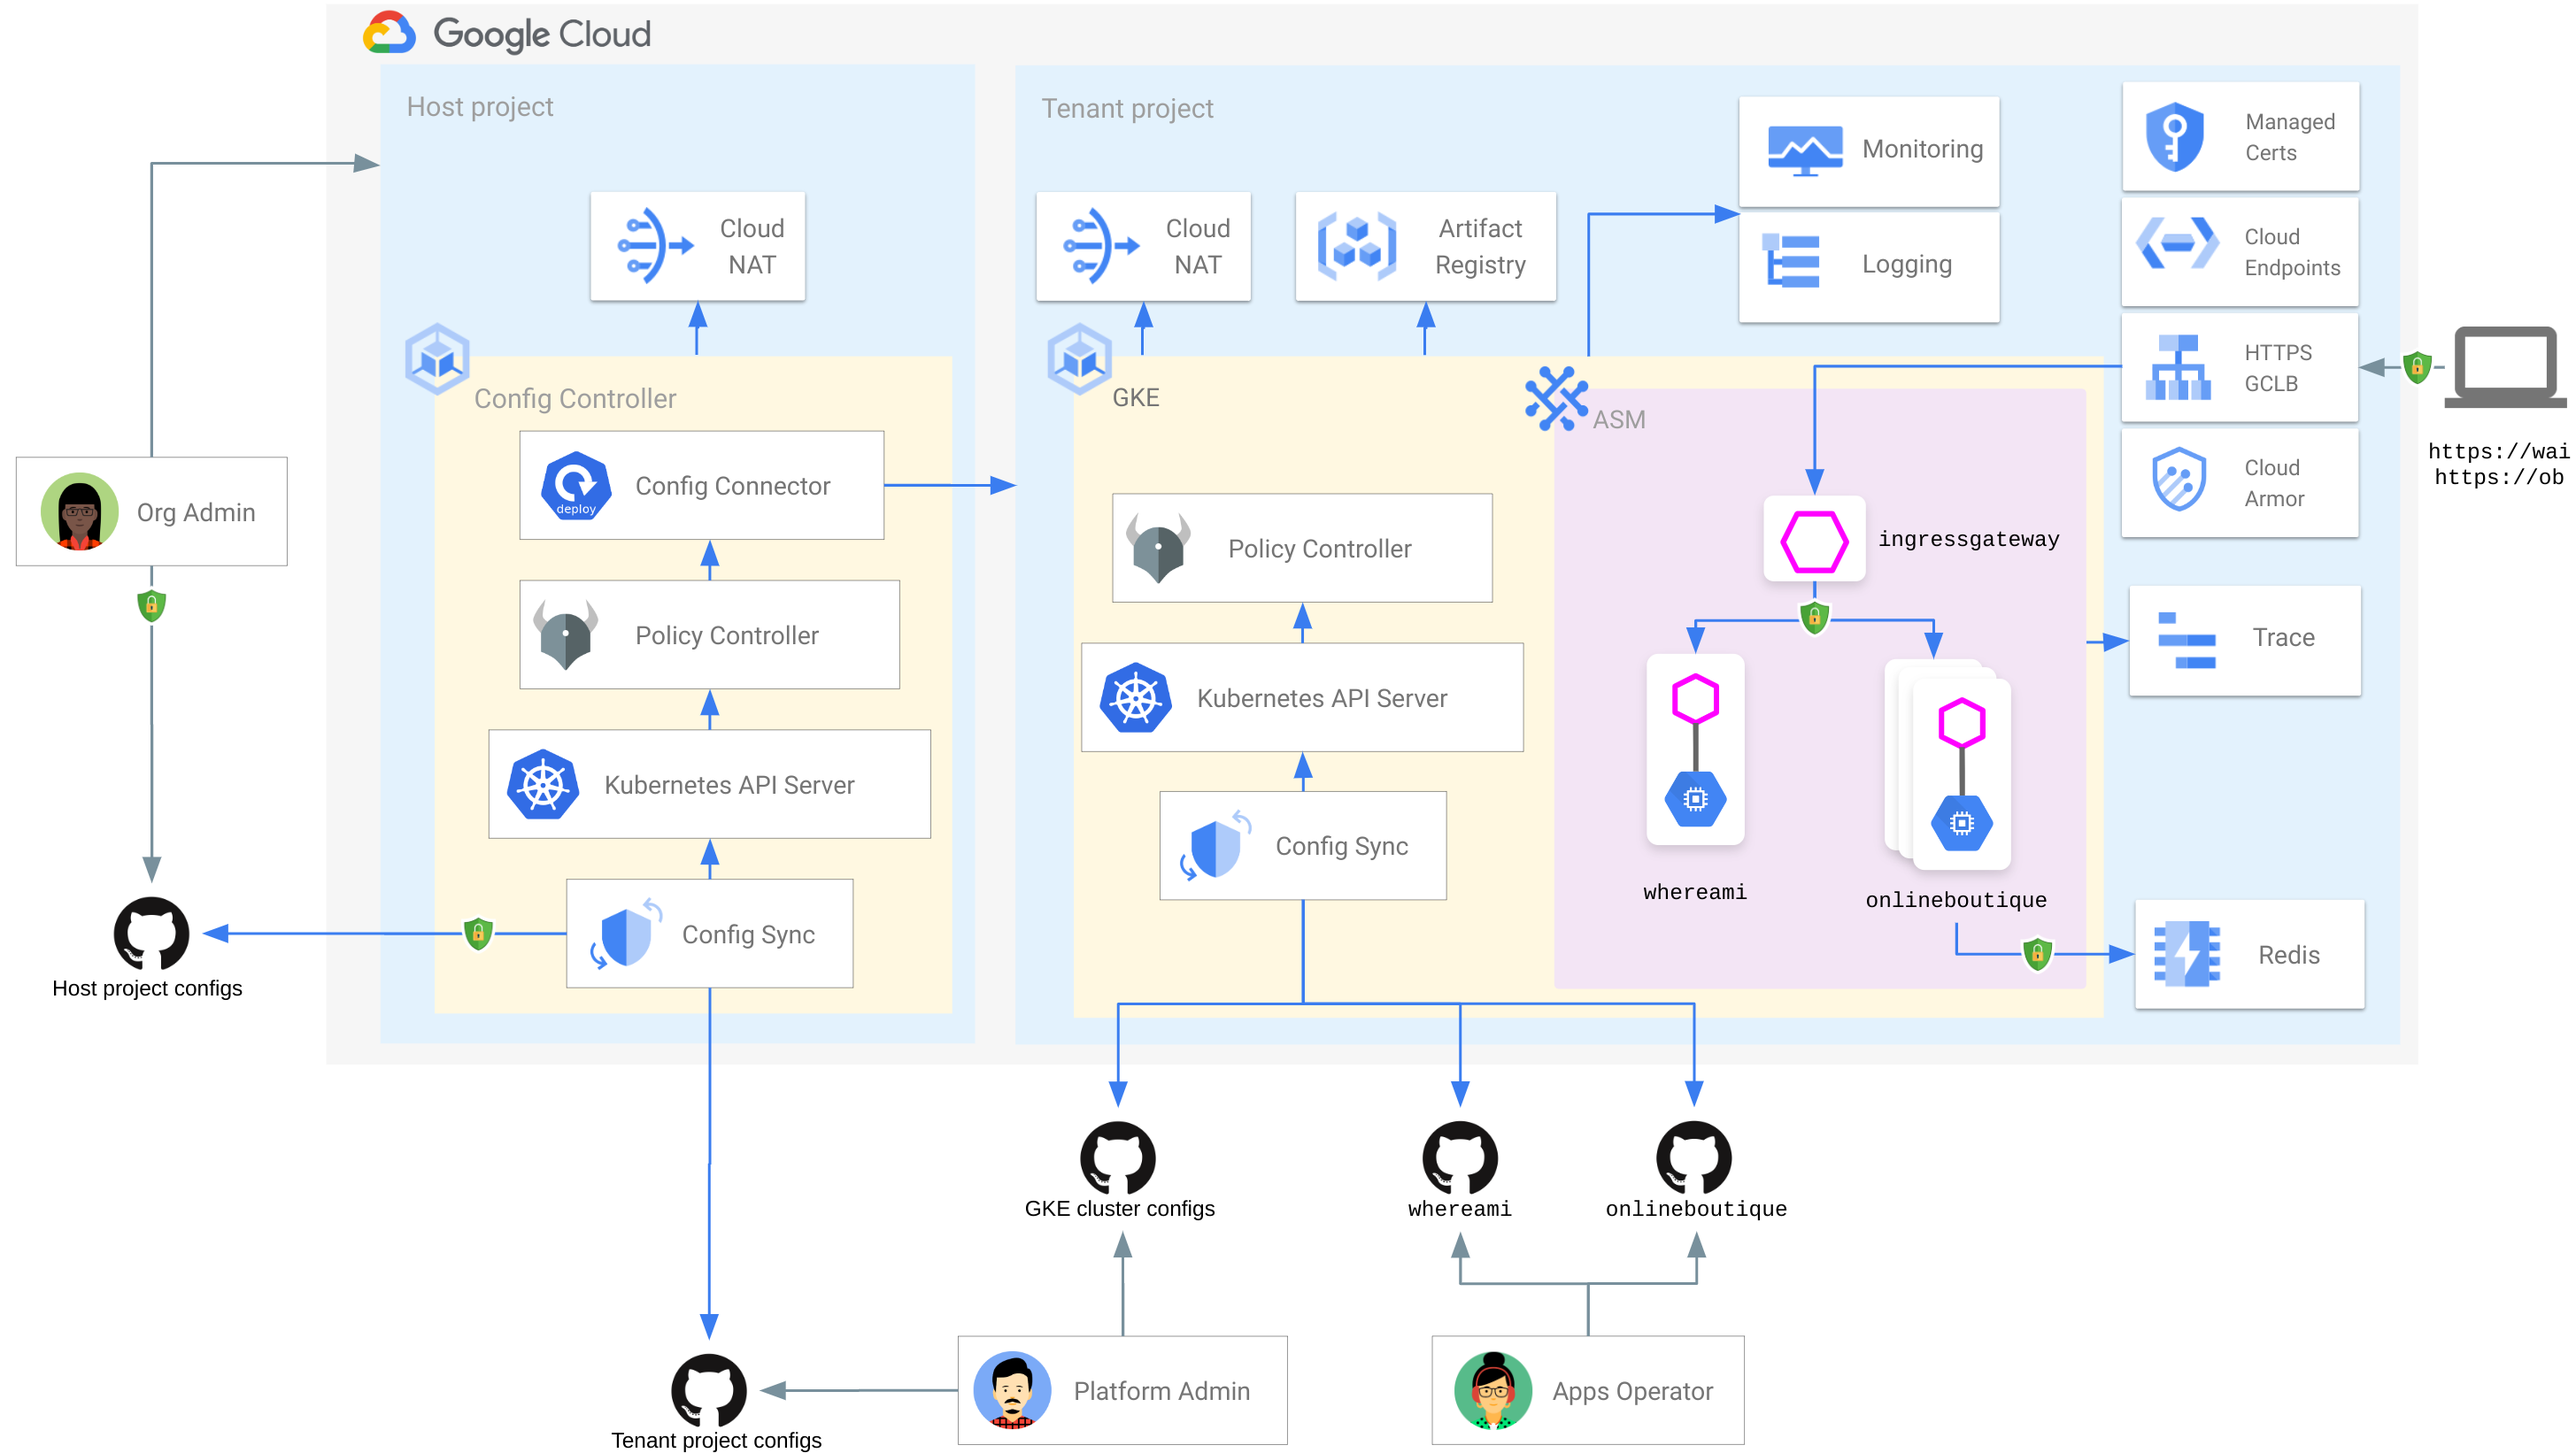
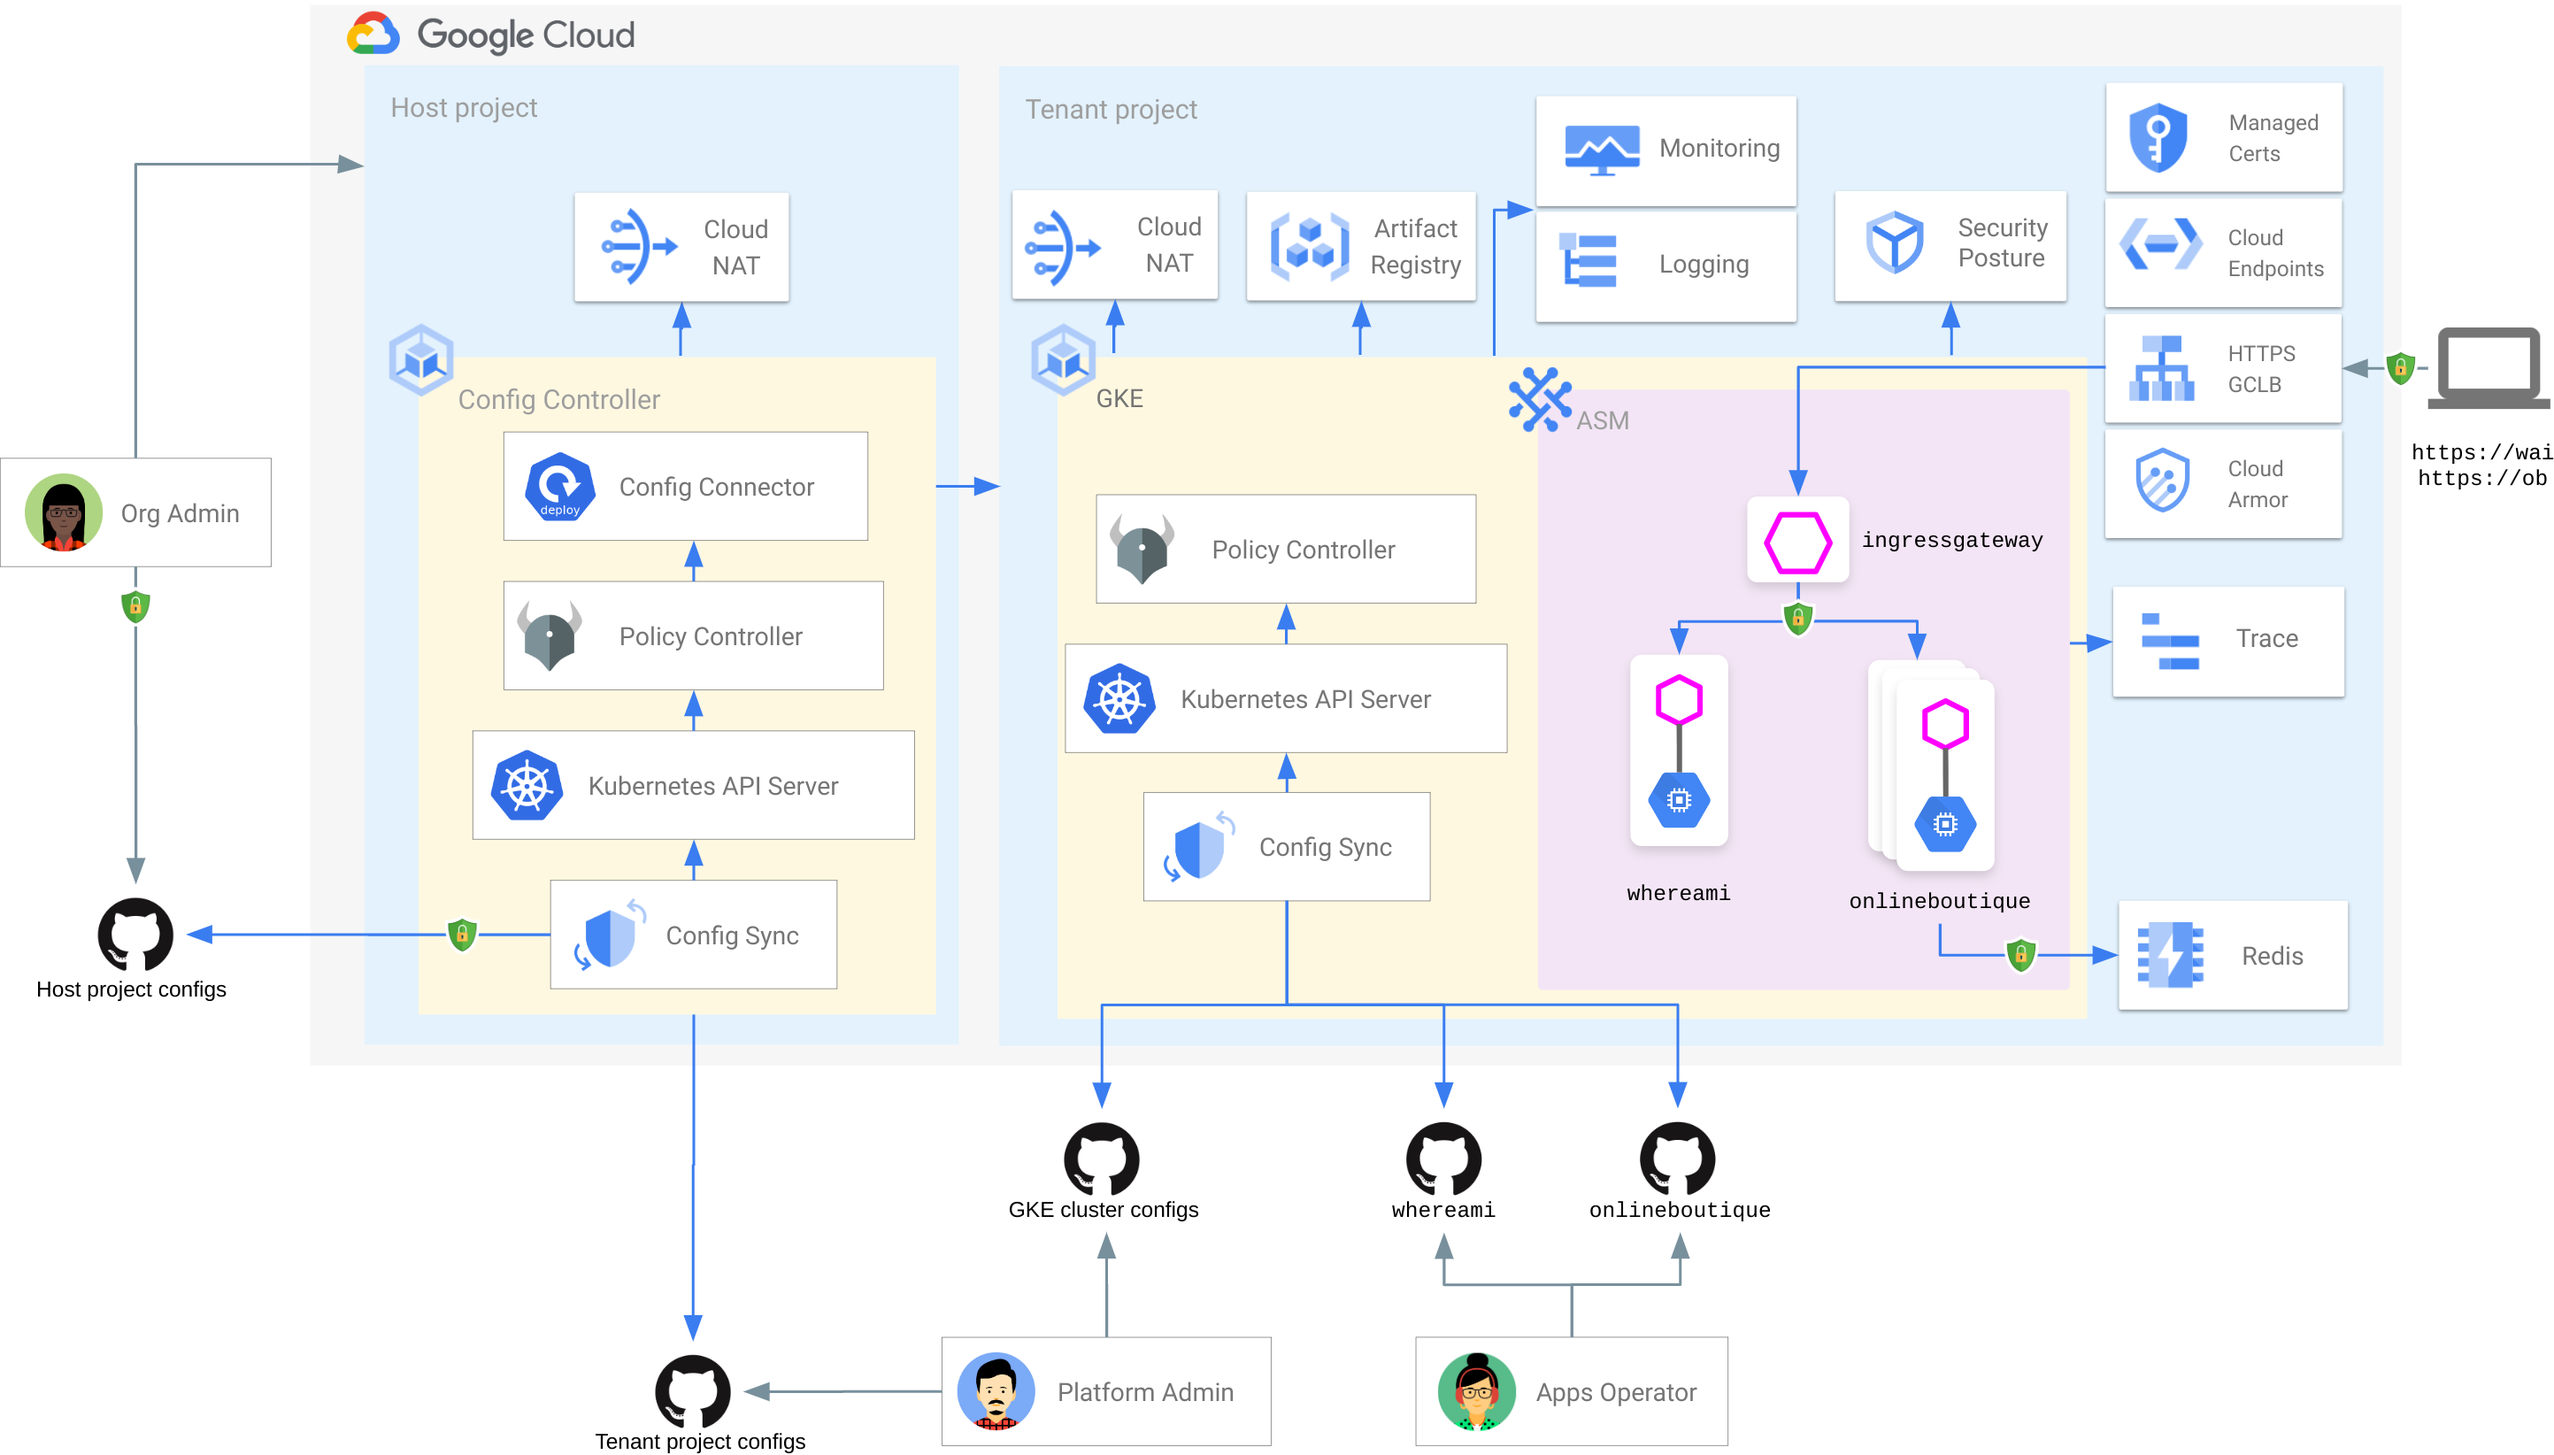
Add GKE Security Posture features

diff --git a/content/gke-cluster/allow-gke.md b/content/gke-cluster/allow-gke.md
@@ -89,7 +89,7 @@ spec:
 EOF
 ```
 
-## Define API
+## Define APIs
 
 Define the GKE API [`Service`](https://cloud.google.com/config-connector/docs/reference/resource-docs/serviceusage/service) resource for the Tenant project:
 ```Bash
@@ -110,11 +110,30 @@ spec:
 EOF
 ```
 
+Later in the workshop, you can optionally leverage the GKE Security Posture features ([Scan workloads configurations](https://cloud.google.com/kubernetes-engine/docs/how-to/protect-workload-configuration) and [Scan container images for known vulnerabilities](https://cloud.google.com/kubernetes-engine/docs/how-to/security-posture-vulnerability-scanning)) in order to scan the configurations of your GKE workloads. Define the GKE Security Posture API [`Service`](https://cloud.google.com/config-connector/docs/reference/resource-docs/serviceusage/service) resource for the Tenant project:
+```Bash
+cat <<EOF > ${WORK_DIR}$HOST_PROJECT_DIR_NAME/projects/$TENANT_PROJECT_ID/containersecurity-service.yaml
+apiVersion: serviceusage.cnrm.cloud.google.com/v1beta1
+kind: Service
+metadata:
+  annotations:
+    cnrm.cloud.google.com/deletion-policy: "abandon"
+    cnrm.cloud.google.com/disable-dependent-services: "false"
+    config.kubernetes.io/depends-on: resourcemanager.cnrm.cloud.google.com/namespaces/config-control/Project/${TENANT_PROJECT_ID}
+  name: ${TENANT_PROJECT_ID}-containersecurity
+  namespace: config-control
+spec:
+  projectRef:
+    name: ${TENANT_PROJECT_ID}
+  resourceID: containersecurity.googleapis.com
+EOF
+```
+
 ## Deploy Kubernetes manifests
 
 ```Bash
 cd ${WORK_DIR}$HOST_PROJECT_DIR_NAME/
-git add . && git commit -m "Allow GKE for Tenant project" && git push origin main
+git add . && git commit -m "Allow GKE and GKE Security Posture for Tenant project" && git push origin main
 ```
 
 ## Check deployments
@@ -129,6 +148,7 @@ graph TD;
   IAMPolicyMember-.->Project
   IAMPolicyMember-.->IAMServiceAccount
   IAMPolicyMember-.->Project
+  Service-.->Project
   Service-.->Project
 {{< /mermaid >}}
 

diff --git a/content/monitoring-and-audit/scan-workloads-configurations.md b/content/monitoring-and-audit/scan-workloads-configurations.md
@@ -1,0 +1,35 @@
+---
+title: "Scan workloads configurations"
+weight: 6
+description: "Duration: 5 min | Persona: Apps Operator"
+tags: ["apps-operator", "monitoring", "security-tips"]
+---
+![Apps Operator](/images/apps-operator.png)
+_{{< param description >}}_
+
+In this section, you will monitor security scanning of your GKE workloads configurations in the Google Cloud console in order to leverage these two features:
+- [Scan workloads for configuration issues](https://cloud.google.com/kubernetes-engine/docs/how-to/protect-workload-configuration)
+- [Scan container images for known vulnerabilities](https://cloud.google.com/kubernetes-engine/docs/how-to/security-posture-vulnerability-scanning)
+
+Initialize variables:
+```Bash
+WORK_DIR=~/
+source ${WORK_DIR}acm-workshop-variables.sh
+```
+
+In the Google Cloud console, navigate to _Kubernetes Engine > Security Posture_, click on the link displayed by the command below:
+```Bash
+echo -e "https://console.cloud.google.com/kubernetes/security/dashboard?project=${TENANT_PROJECT_ID}"
+```
+
+On the default **Dashboard** tab, find the **GKE Posture settings** tile. And for both features **Workload configuration audit** and **Workload vulnerability audit**, click on one of the **Seclect clusters** button, select your GKE cluster and click on the **Turn on audit** button.
+
+![Enable GKE Security Posture](/images/gke-security-posture-enablement.png)
+
+Then you have to wait a little bit while these features are being enabled on your GKE cluster and eventually the audit will start:
+
+> Audit in progress. It can take up to 15 minutes to complete.
+
+Eventually, when the audit is done, you will be able to see the report of the vulnerabilities found. The **Workload configuration audit** will come first, **Workload vulnerability audit** will be generated later. 
+
+![GKE Security Posture report](/images/gke-security-posture-report.png)

diff --git a/content/monitoring-and-audit/monitor-waf-rules.md b/content/monitoring-and-audit/monitor-waf-rules.md
@@ -1,6 +1,6 @@
 ---
 title: "Monitor WAF rules"
-weight: 6
+weight: 5
 description: "Duration: 5 min | Persona: Platform Admin"
 tags: ["monitoring", "platform-admin", "security-tips"]
 ---
@@ -19,14 +19,14 @@ Using logging, you can view every request evaluated by a Google Cloud Armor secu
 
 In the Google Cloud console, navigate to _Network Security > Cloud Armor_ service. Click on the link displayed by the command below:
 ```Bash
-echo -e "https://pantheon.corp.google.com/net-security/securitypolicies/details/${SECURITY_POLICY_NAME}?project=${TENANT_PROJECT_ID}"
+echo -e "https://console.cloud.google.com/net-security/securitypolicies/details/${SECURITY_POLICY_NAME}?project=${TENANT_PROJECT_ID}"
 ```
 
 Select the **Logs** tab and click on **View policy logs**. From here, change _Last 1 hour_ by **Last 7 days** (top left) and enable the **Show query** toggle (top right):
 
 ![Cloud Armor logging](/images/cloud-armor-logging.png)
 
-In the **Query** field you could add a new ligne with `jsonPayload.enforcedSecurityPolicy.outcome="DENY"` for example in order to see all the requests denied by the WAF rules you set up earlier in this workshop.
+In the **Query** field you could add a new line with `jsonPayload.enforcedSecurityPolicy.outcome="DENY"` for example to see all the denied requests by the WAF rules you set up earlier in this workshop.
 
 You could also leverage the `gcloud` command below to get such insights.
 

diff --git a/content/monitoring-and-audit/monitor-apps-security.md b/content/monitoring-and-audit/monitor-apps-security.md
@@ -1,13 +1,13 @@
 ---
 title: "Monitor apps security"
-weight: 3
+weight: 2
 description: "Duration: 5 min | Persona: Apps Operator"
-tags: ["asm", "apps-operator", "monitoring", "security-tips"]
+tags: ["apps-operator", "asm", "monitoring", "security-tips"]
 ---
 ![Apps Operator](/images/apps-operator.png)
 _{{< param description >}}_
 
-In this section, you will monitor security features of your apps in the Google Cloud console.
+In this section, you will monitor security features such as Network Policies and Service requests of your apps in the Google Cloud console.
 
 Initialize variables:
 ```Bash

diff --git a/content/monitoring-and-audit/monitor-apps-health.md b/content/monitoring-and-audit/monitor-apps-health.md
@@ -1,6 +1,6 @@
 ---
 title: "Monitor apps health"
-weight: 4
+weight: 3
 description: "Duration: 5 min | Persona: Apps Operator"
 tags: ["asm", "apps-operator", "monitoring", "security-tips"]
 ---

diff --git a/content/monitoring-and-audit/verify-asm-version.md b/content/monitoring-and-audit/verify-asm-version.md
@@ -1,6 +1,6 @@
 ---
 title: "Verify ASM version"
-weight: 2
+weight: 1
 description: "Duration: 5 min | Persona: Platform Admin"
 tags: ["asm", "monitoring", "platform-admin"]
 ---

diff --git a/content/monitoring-and-audit/trace-apps.md b/content/monitoring-and-audit/trace-apps.md
@@ -1,6 +1,6 @@
 ---
 title: "Trace apps"
-weight: 5
+weight: 4
 description: "Duration: 5 min | Persona: Apps Operator"
 tags: ["asm", "apps-operator", "monitoring"]
 ---
